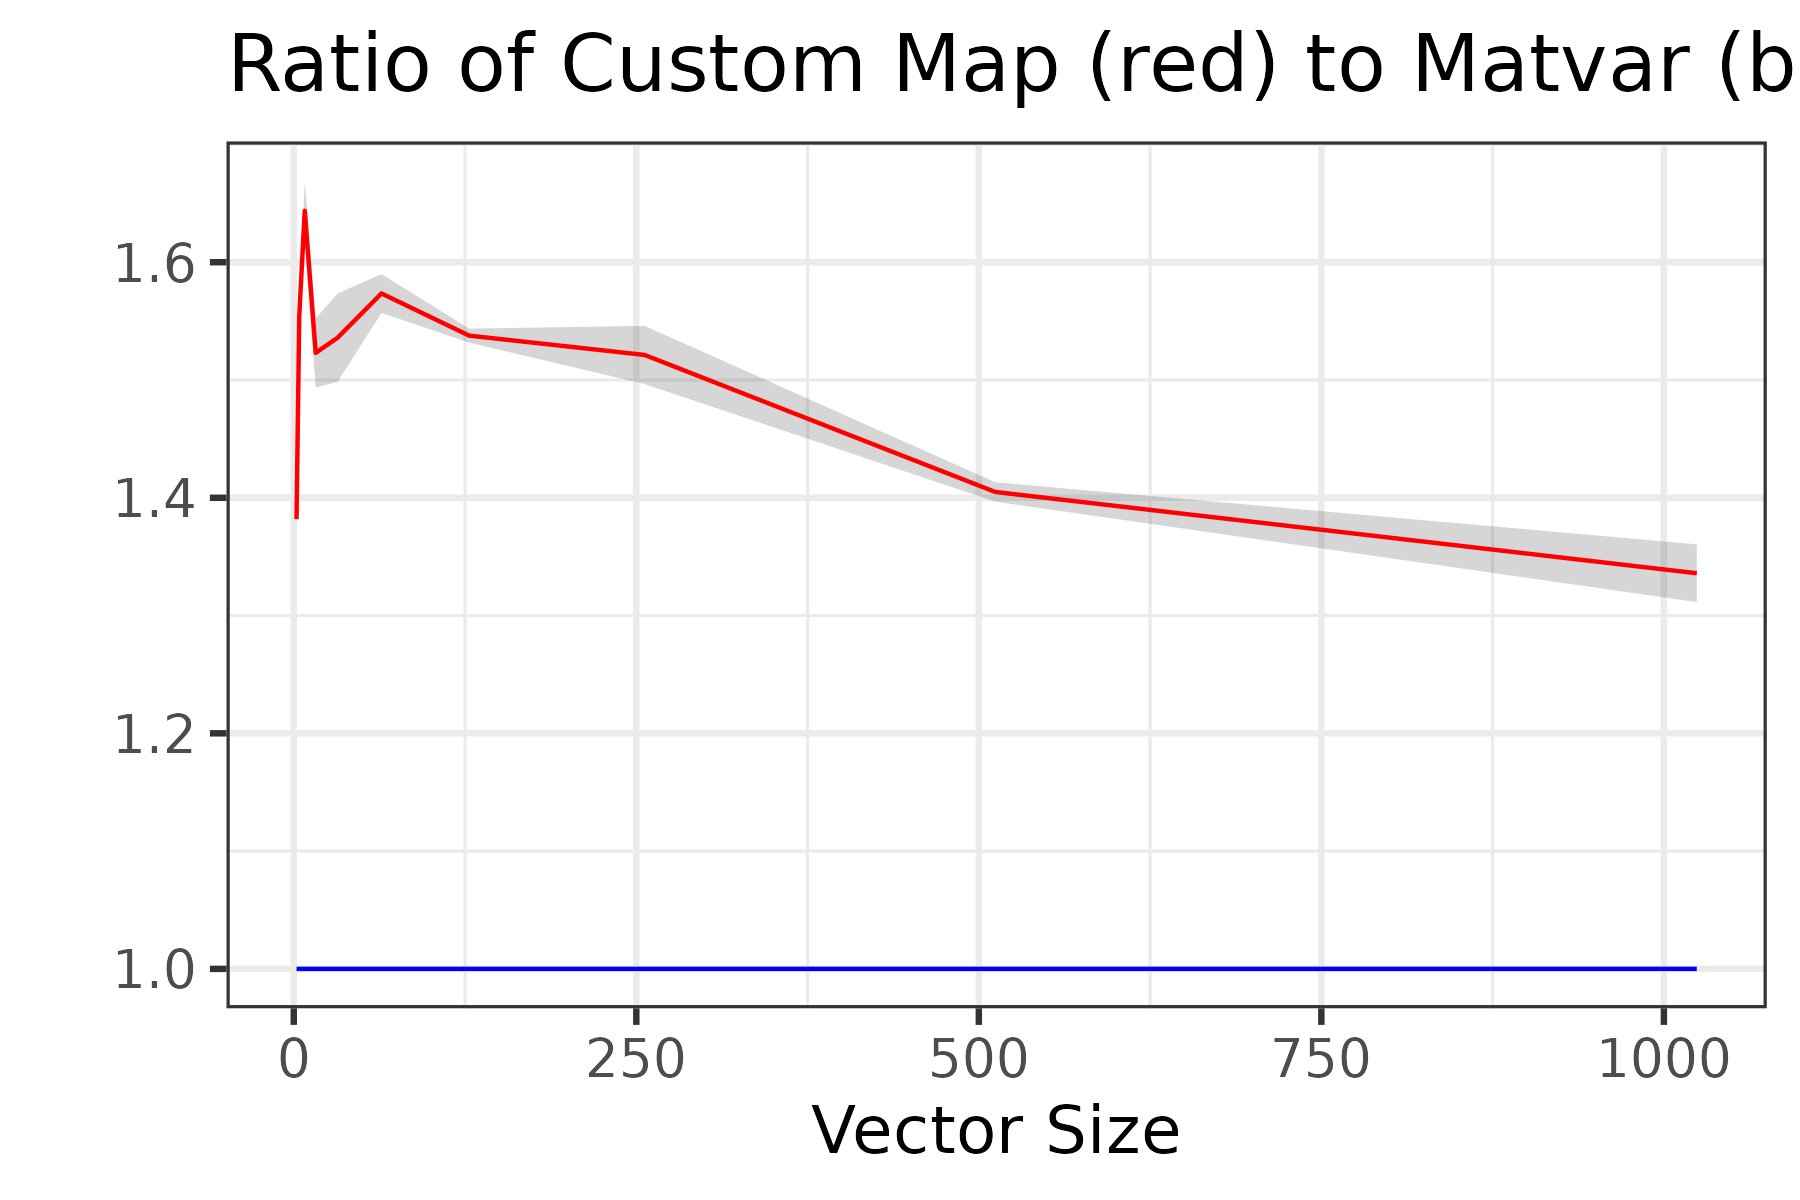
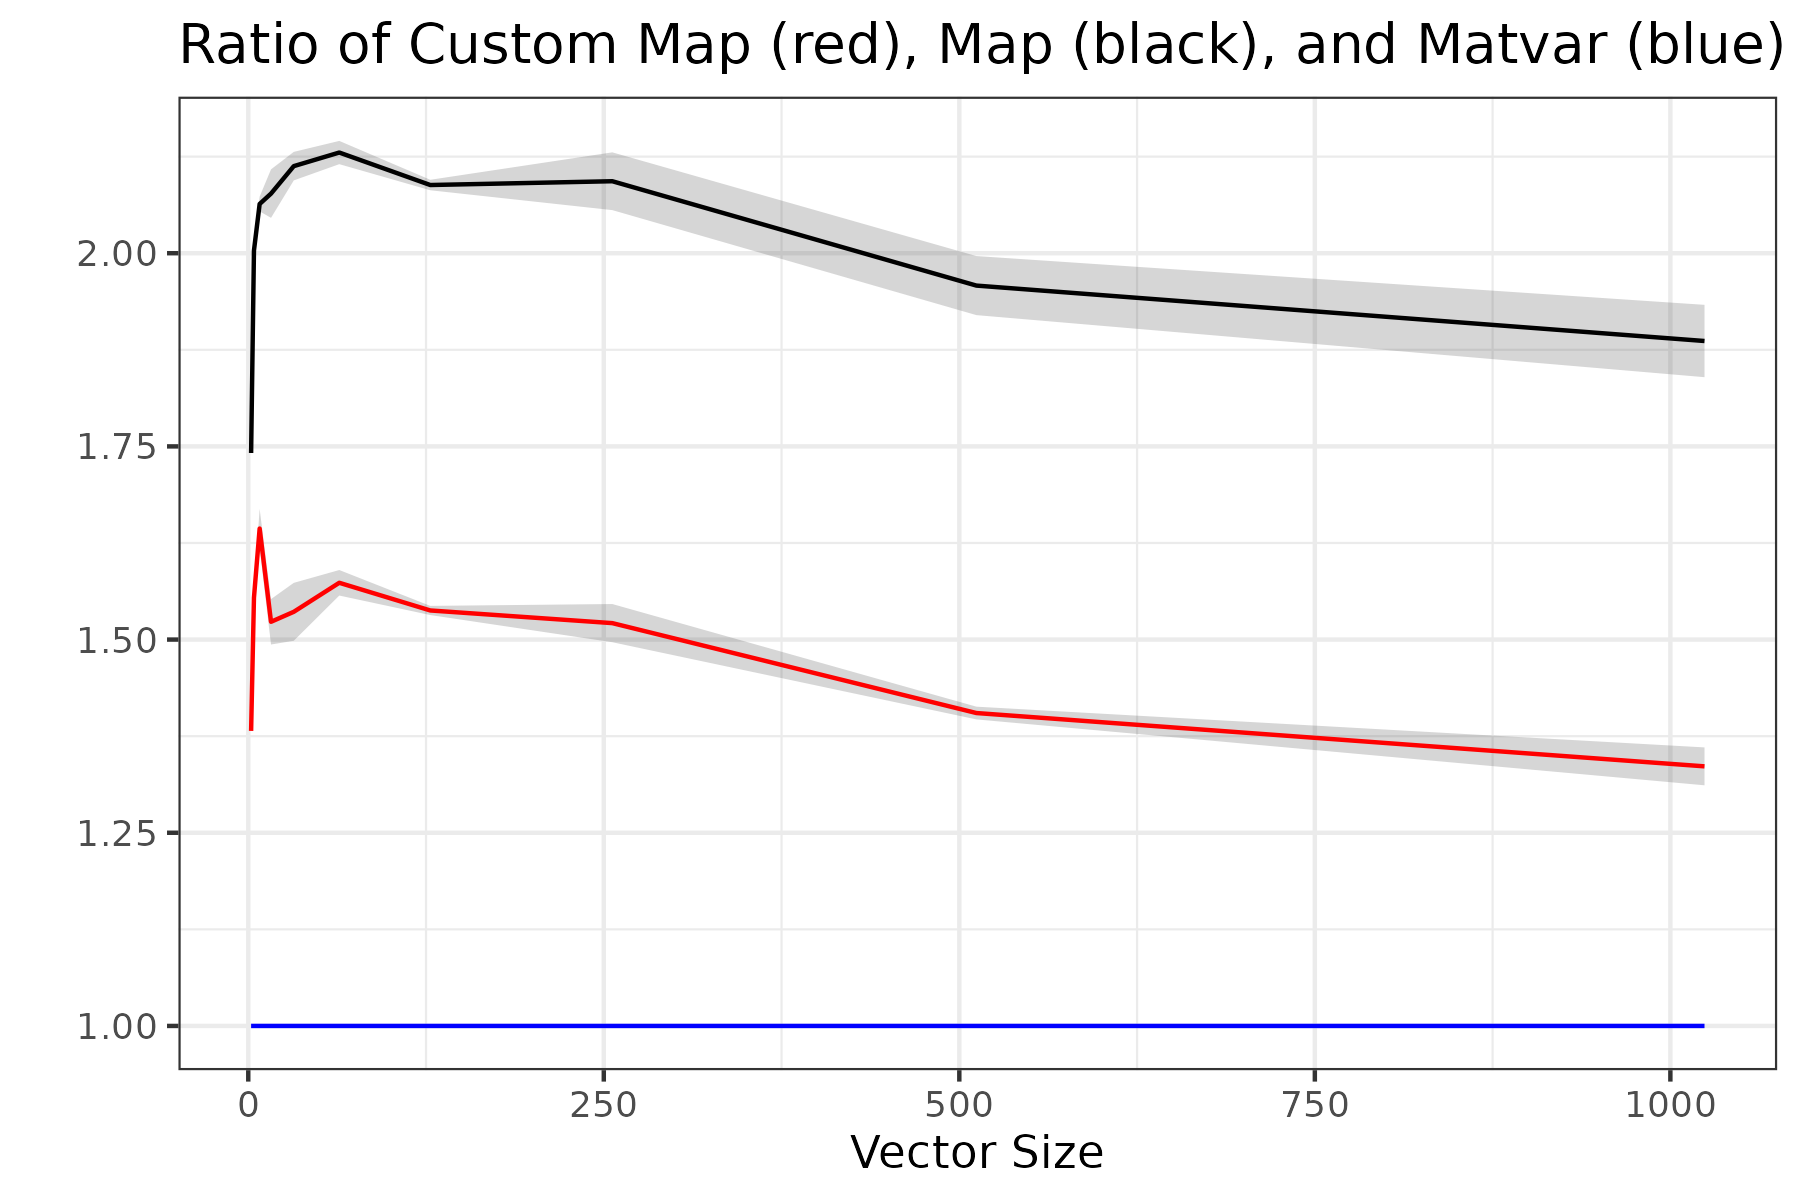
update multi index to do an additional fma

diff --git a/benchmarks/varmat_multi_assign/varmat_custom_map.cpp b/benchmarks/varmat_multi_assign/varmat_custom_map.cpp
@@ -85,11 +85,11 @@ static void multi_assign(benchmark::State& state) {
   const stan::model::index_multi idxs(idx_vec);
   for (auto _ : state) {
     var_value<Eigen::Matrix<double, -1, 1>> x = x_vals;
-    var_value<Eigen::Matrix<double, -1, 1>> z = y_vals;
+    var_value<Eigen::Matrix<double, -1, 1>> z = x_vals;
     var_value<Eigen::Matrix<double, -1, 1>> y = y_vals;
     auto start = std::chrono::high_resolution_clock::now();
     new_assign(x, y, "", idxs);
-    sum(x * z + z).grad();
+    sum(stan::math::add(stan::math::dot_product(x, z), z)).grad();
     auto end = std::chrono::high_resolution_clock::now();
     auto elapsed_seconds =
       std::chrono::duration_cast<std::chrono::duration<double>>(end - start);

diff --git a/benchmarks/varmat_multi_assign/varmat_set.cpp b/benchmarks/varmat_multi_assign/varmat_set.cpp
@@ -23,7 +23,7 @@ static void multi_assign(benchmark::State& state) {
     var_value<Eigen::Matrix<double, -1, 1>> y = y_vals;
     auto start = std::chrono::high_resolution_clock::now();
     stan::model::assign(x, y, "", idxs);
-    sum(x * z + z).grad();
+    sum(stan::math::add(stan::math::dot_product(x, z), z)).grad();
     auto end = std::chrono::high_resolution_clock::now();
     auto elapsed_seconds =
       std::chrono::duration_cast<std::chrono::duration<double>>(end - start);

diff --git a/benchmarks/varmat_multi_assign/varmat_map.cpp b/benchmarks/varmat_multi_assign/varmat_map.cpp
@@ -80,7 +80,7 @@ static void multi_assign(benchmark::State& state) {
     var_value<Eigen::Matrix<double, -1, 1>> y = y_vals;
     auto start = std::chrono::high_resolution_clock::now();
     new_assign(x, y, "", idxs);
-    sum(x * z + z).grad();
+    sum(stan::math::add(stan::math::dot_product(x, z), z)).grad();
     auto end = std::chrono::high_resolution_clock::now();
     auto elapsed_seconds =
       std::chrono::duration_cast<std::chrono::duration<double>>(end - start);

diff --git a/benchmarks/varmat_multi_assign/matvar.cpp b/benchmarks/varmat_multi_assign/matvar.cpp
@@ -23,7 +23,7 @@ static void multi_assign(benchmark::State& state) {
     Eigen::Matrix<var, -1, 1> y = y_vals;
     auto start = std::chrono::high_resolution_clock::now();
     stan::model::assign(x, y, "", idxs);
-    sum(x * z + z).grad();
+    sum(stan::math::add(stan::math::dot_product(x, z), z)).grad();
     auto end = std::chrono::high_resolution_clock::now();
     auto elapsed_seconds =
       std::chrono::duration_cast<std::chrono::duration<double>>(end - start);
